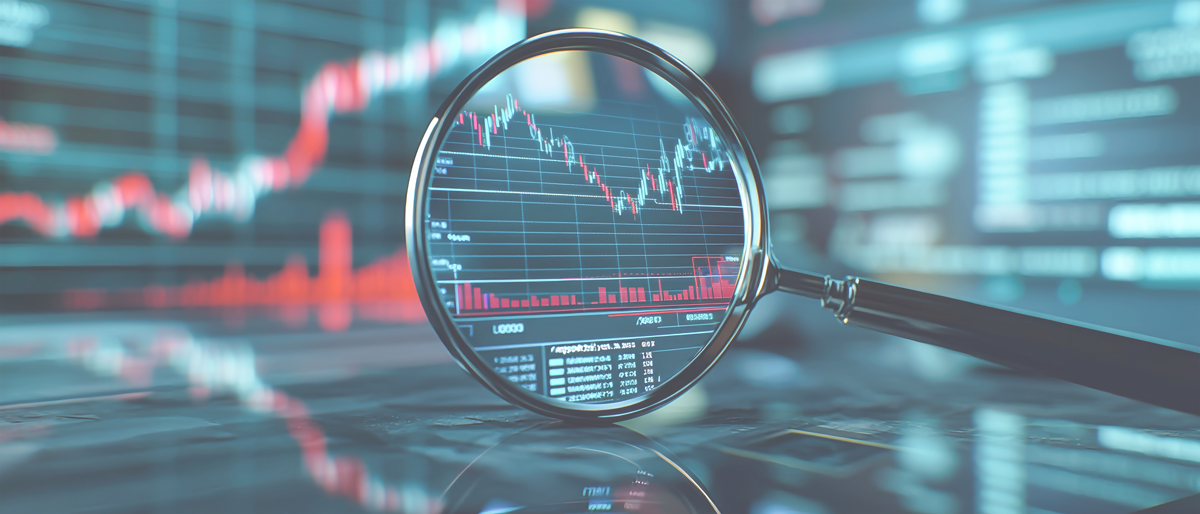
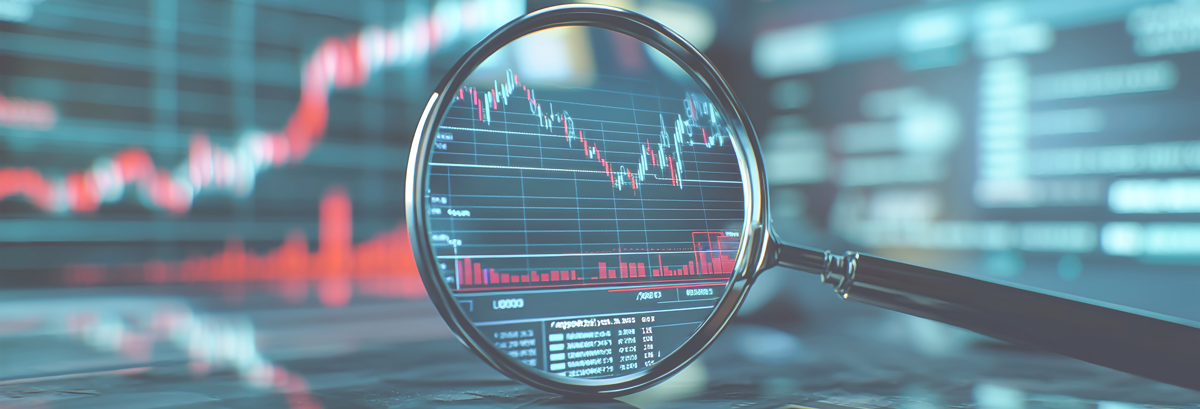
updated page

diff --git a/styles/glossary.css b/styles/glossary.css
@@ -1,3 +1,59 @@
+/* Hero Section */
+.heroContact {
+    text-align: center;
+    padding: 60px 20px;
+    align-items: center;
+    max-width: 100dvw;
+    width: 100%;
+    height: 76dvh !important;
+    display: flex;
+    justify-content: center;
+    background-image: url("../assets/glossary/glossary-banner.png");
+    background-size: cover;
+    background-position: center;
+  }
+  
+  .heroContact h1 {
+    font-size: clamp(2rem, 4dvw, 5rem) !important;
+    font-weight: bold;
+    line-height: 1;
+    /* margin: auto; */
+    width: 100%;
+    margin-bottom: 20px;
+    text-align: center;
+  }
+  
+  .heroContact {
+    /* border: 2px solid; */
+    /* border-image-source: linear-gradient(180deg, #1EE981 0%, #0E92CA 71.61%); */
+    border-image-slice: 1;
+  }
+  
+  .heroContact p {
+    font-size: 16px;
+    max-width: 600px;
+    margin: 0 auto 30px;
+    color: #fff;
+    /* Light gray for text */
+  }
+  
+  .cta-buttons {
+    display: flex;
+    justify-content: center;
+    gap: 15px;
+  }
+  
+  .cta-buttons .btn {
+    padding: 12px 25px;
+    border-radius: 8px;
+    text-decoration: none;
+    font-weight: 600;
+    font-size: 16px;
+  }
+
+
+
+
 .glossary-container {
     margin: 0 auto;
     backdrop-filter: blur(20px);

diff --git a/pages/glossary.html b/pages/glossary.html
@@ -6,7 +6,6 @@
   <meta name="viewport" content="width=device-width, initial-scale=1.0">
   <title>Razor Markets</title>
   <link rel="stylesheet" href="https://cdn.jsdelivr.net/npm/bulma@1.0.2/css/bulma.min.css">
-  <link rel="stylesheet" href="../styles/contact.css">
   <link rel="stylesheet" href="../styles/index.css">
   <link rel="stylesheet" href="../styles/backgroundCSS.css">
    <link rel="stylesheet" href="../styles/glossary.css">
